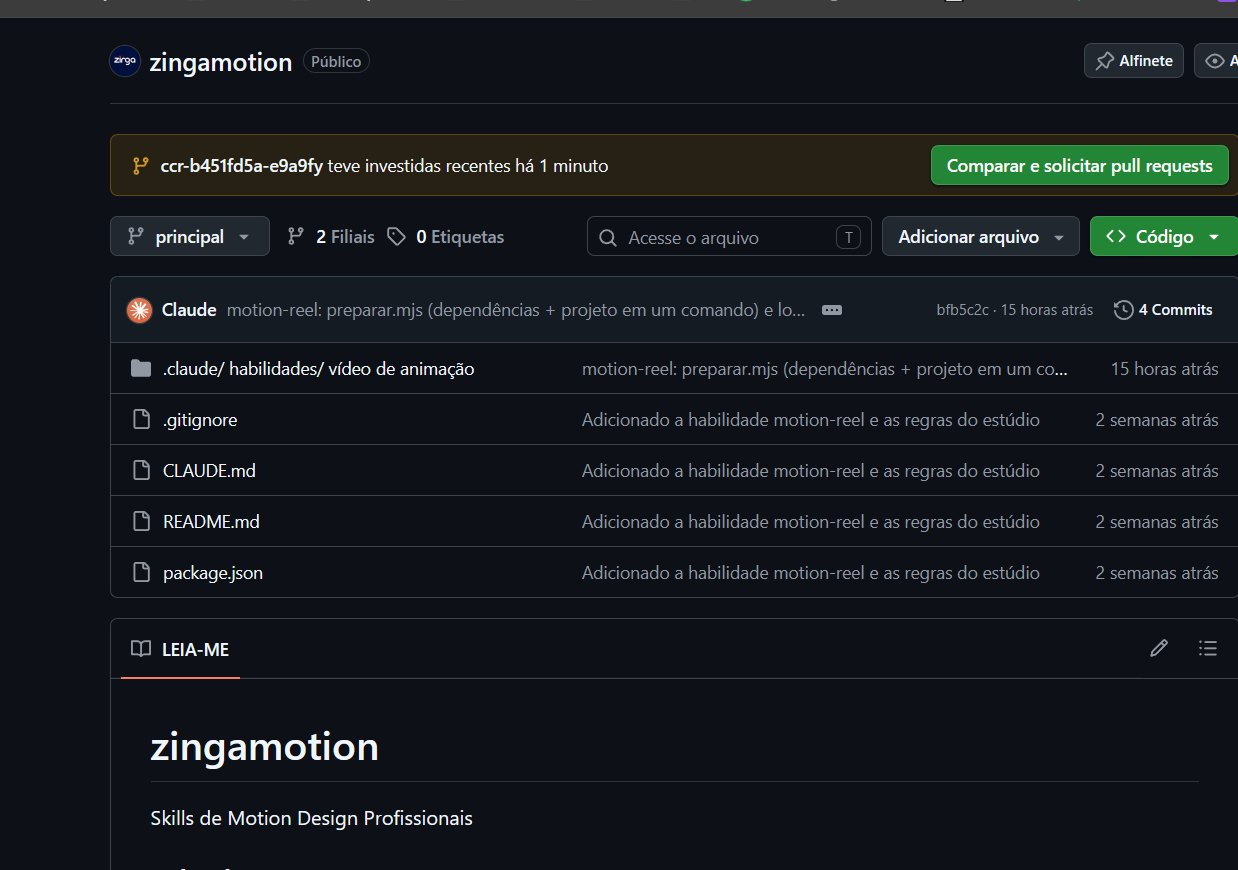
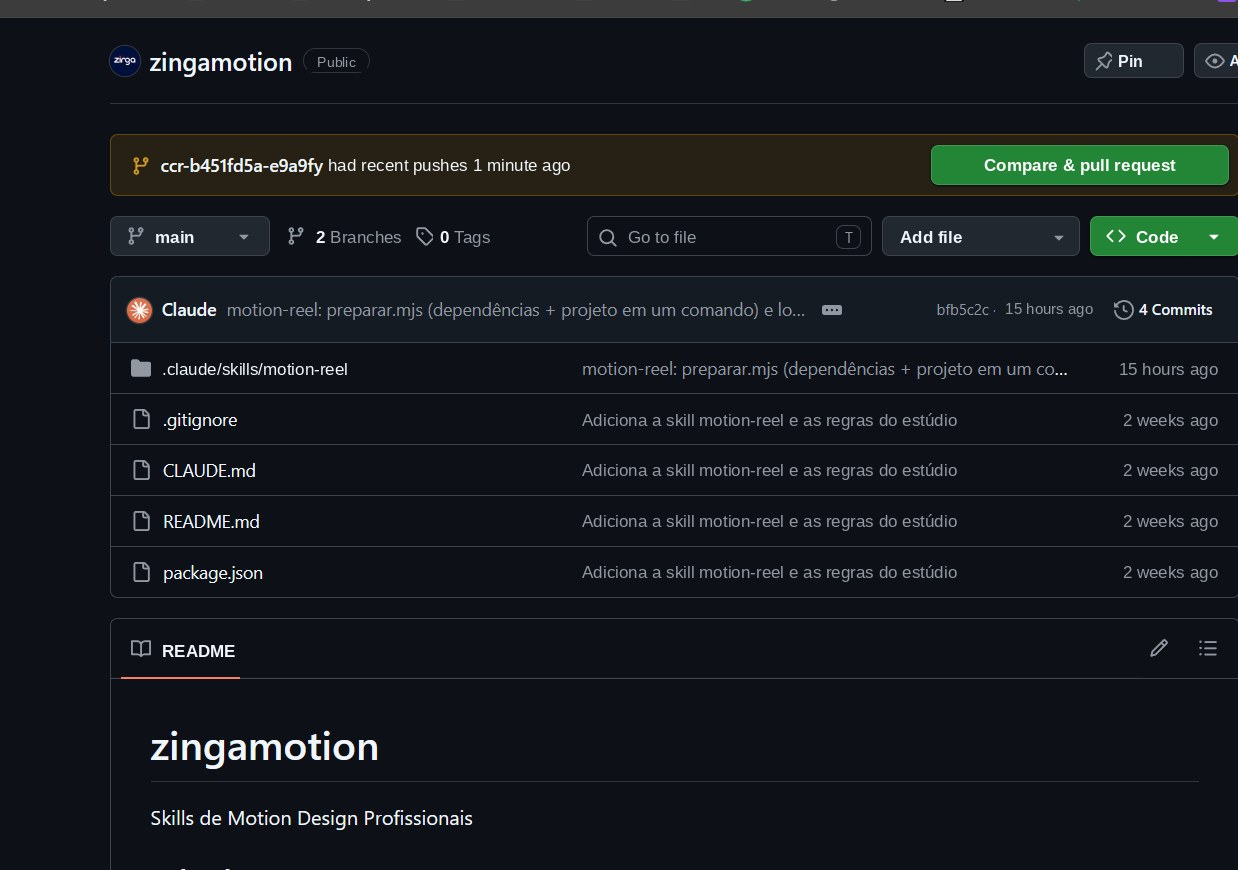
Troca o print do GitHub traduzido pela versão com os nomes originais
Claude-Session: https://claude.ai/code/session_01SG1jvjK9zCZrSJCdvqTfaC

diff --git a/docs/zinga-team-training/index.html b/docs/zinga-team-training/index.html
@@ -1086,14 +1086,14 @@ tbody tr:last-child td{border-bottom:0}
       <figure class="shot">
         <div class="frame"><img src="img/15-github-repo-zingamotion.jpg" alt="Página do repositório zingamotion no GitHub com seletor de branch e commits" loading="lazy"></div>
         <figcaption>
-          <p class="overline">Print 15 · dentro de um repositório (com tradução ligada)</p>
+          <p class="overline">Print 15 · dentro de um repositório</p>
           <ol class="explain">
-            <li><span><b>Faixa amarela:</b> “ccr-… teve pushes recentes”. Uma branch recebeu alterações e o GitHub oferece o botão <b>Compare &amp; pull request</b> (traduzido como “Comparar e solicitar pull requests”).</span></li>
-            <li><span><b>Seletor “main”</b> (traduzido “principal”): troca a branch que você está vendo.</span></li>
-            <li><span><b>2 Branches</b> (“2 Filiais”): quantas cópias de trabalho existem.</span></li>
+            <li><span><b>Faixa amarela:</b> “ccr-… had recent pushes”: uma branch recebeu alterações e o GitHub oferece o botão <b>Compare &amp; pull request</b>, que abre o pedido de aprovação.</span></li>
+            <li><span><b>Seletor “main”:</b> troca a branch que você está vendo.</span></li>
+            <li><span><b>2 Branches:</b> quantas cópias de trabalho existem. <b>0 Tags</b> são marcos de versão, que a Zinga ainda não usa.</span></li>
             <li><span><b>4 Commits:</b> abre o histórico de versões. Clique num commit para ver em verde o que entrou e em vermelho o que saiu.</span></li>
             <li><span><b>Lista de arquivos:</b> cada linha mostra a descrição do último commit que mexeu nele e quando.</span></li>
-            <li><span><b>LEIA-ME:</b> o README, a apresentação do repositório.</span></li>
+            <li><span><b>README:</b> a apresentação do repositório, mostrada logo abaixo da lista.</span></li>
             <li><span><b>Abas do topo:</b> Code (arquivos), Pull requests (pedidos de aprovação), Settings (configurações e acesso).</span></li>
           </ol>
         </figcaption>
